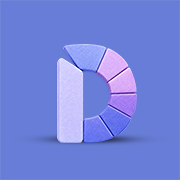
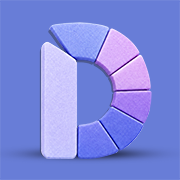
Edit

Changed region(s): [[0.1111, 0.1111, 0.8611, 0.9167]]

diff --git a/src/pages/Landing.jsx b/src/pages/Landing.jsx
@@ -1,6 +1,7 @@
 import { useEffect, useState } from 'react'
 import { Link } from 'react-router-dom'
 import ThemeToggleButton from '../components/ThemeToggleButton'
+import { useTheme } from '../context/ThemeContext'
 import { openAdminWhatsApp } from '../lib/whatsapp'
 import './Landing.css'
 
@@ -77,6 +78,8 @@ function Check() {
 }
 
 export default function Landing() {
+  const { theme } = useTheme()
+  const logoSrc = theme === 'dark' ? '/icon-512-dark.png' : '/icon-512-light.png'
   const [showTop, setShowTop] = useState(false)
 
   useEffect(() => {
@@ -102,7 +105,7 @@ export default function Landing() {
     <div className="landing">
       <header className="landing-nav">
         <div className="landing-brand">
-          <div className="landing-brand-mark"><img src="/icon-512.png" alt="Dapur MUA" /></div>
+          <div className="landing-brand-mark"><img src={logoSrc} alt="Dapur MUA" /></div>
           <div className="landing-brand-text">
           <span className="landing-brand-title">Dapur MUA</span>
           <span className="landing-brand-tagline">Dashboard Balik Layar Make Up Artist</span>
@@ -254,7 +257,7 @@ export default function Landing() {
       </section>
 
       <footer className="landing-footer">
-        <div className="landing-brand"><div className="landing-brand-mark small"><img src="/icon-512.png" alt="Dapur MUA" /></div><span className="landing-brand-title">Dapur MUA</span></div>
+        <div className="landing-brand"><div className="landing-brand-mark small"><img src={logoSrc} alt="Dapur MUA" /></div><span className="landing-brand-title">Dapur MUA</span></div>
         <p>© 2026 Dapur MUA. Hak cipta dilindungi.</p>
       </footer>
 

diff --git a/src/pages/ResetPassword.jsx b/src/pages/ResetPassword.jsx
@@ -2,9 +2,12 @@ import { useState } from 'react'
 import { Link, useNavigate } from 'react-router-dom'
 import { supabase } from '../lib/supabase'
 import ThemeToggleButton from '../components/ThemeToggleButton'
+import { useTheme } from '../context/ThemeContext'
 import './Auth.css'
 
 export default function ResetPassword() {
+  const { theme } = useTheme()
+  const logoSrc = theme === 'dark' ? '/icon-512-dark.png' : '/icon-512-light.png'
   const [password, setPassword] = useState('')
   const [showPassword, setShowPassword] = useState(false)
   const [confirmPassword, setConfirmPassword] = useState('')
@@ -48,7 +51,7 @@ export default function ResetPassword() {
       <div className="auth-page-toggle"><ThemeToggleButton /></div>
         <div className="auth-card">
           <div className="auth-brand">
-            <div className="auth-brand-mark"><img src="/icon-512.png" alt="Dapur MUA" /></div>
+            <div className="auth-brand-mark"><img src={logoSrc} alt="Dapur MUA" /></div>
             <div className="auth-brand-name">Dapur MUA</div>
           </div>
           <div className="auth-title">Kata sandi berhasil diubah ✅</div>
@@ -64,7 +67,7 @@ export default function ResetPassword() {
       <div className="auth-page-toggle"><ThemeToggleButton /></div>
       <div className="auth-card">
         <div className="auth-brand">
-          <div className="auth-brand-mark"><img src="/icon-512.png" alt="Dapur MUA" /></div>
+          <div className="auth-brand-mark"><img src={logoSrc} alt="Dapur MUA" /></div>
           <div className="auth-brand-name">Dapur MUA</div>
         </div>
 

diff --git a/src/pages/Register.jsx b/src/pages/Register.jsx
@@ -2,9 +2,12 @@ import { useState } from 'react'
 import { Link } from 'react-router-dom'
 import { supabase } from '../lib/supabase'
 import ThemeToggleButton from '../components/ThemeToggleButton'
+import { useTheme } from '../context/ThemeContext'
 import './Auth.css'
 
 export default function Register() {
+  const { theme } = useTheme()
+  const logoSrc = theme === 'dark' ? '/icon-512-dark.png' : '/icon-512-light.png'
   const [studioName, setStudioName] = useState('')
   const [email, setEmail] = useState('')
   const [password, setPassword] = useState('')
@@ -71,7 +74,7 @@ export default function Register() {
       <div className="auth-page-toggle"><ThemeToggleButton /></div>
         <div className="auth-card">
           <div className="auth-brand">
-            <div className="auth-brand-mark"><img src="/icon-512.png" alt="Dapur MUA" /></div>
+            <div className="auth-brand-mark"><img src={logoSrc} alt="Dapur MUA" /></div>
             <div className="auth-brand-name">Dapur MUA</div>
           </div>
           <div className="auth-title">Cek email kamu 📩</div>
@@ -92,7 +95,7 @@ export default function Register() {
       <div className="auth-page-toggle"><ThemeToggleButton /></div>
       <div className="auth-card">
         <div className="auth-brand">
-          <div className="auth-brand-mark"><img src="/icon-512.png" alt="Dapur MUA" /></div>
+          <div className="auth-brand-mark"><img src={logoSrc} alt="Dapur MUA" /></div>
           <div className="auth-brand-name">Dapur MUA</div>
         </div>
 

diff --git a/src/pages/LupaPassword.jsx b/src/pages/LupaPassword.jsx
@@ -2,9 +2,12 @@ import { useState } from 'react'
 import { Link } from 'react-router-dom'
 import { supabase } from '../lib/supabase'
 import ThemeToggleButton from '../components/ThemeToggleButton'
+import { useTheme } from '../context/ThemeContext'
 import './Auth.css'
 
 export default function LupaPassword() {
+  const { theme } = useTheme()
+  const logoSrc = theme === 'dark' ? '/icon-512-dark.png' : '/icon-512-light.png'
   const [email, setEmail] = useState('')
   const [error, setError] = useState('')
   const [loading, setLoading] = useState(false)
@@ -33,7 +36,7 @@ export default function LupaPassword() {
       <div className="auth-page-toggle"><ThemeToggleButton /></div>
         <div className="auth-card">
           <div className="auth-brand">
-            <div className="auth-brand-mark"><img src="/icon-512.png" alt="Dapur MUA" /></div>
+            <div className="auth-brand-mark"><img src={logoSrc} alt="Dapur MUA" /></div>
             <div className="auth-brand-name">Dapur MUA</div>
           </div>
           <div className="auth-title">Cek email kamu 📩</div>
@@ -54,7 +57,7 @@ export default function LupaPassword() {
       <div className="auth-page-toggle"><ThemeToggleButton /></div>
       <div className="auth-card">
         <div className="auth-brand">
-        <div className="auth-brand-mark"><img src="/icon-512.png" alt="Dapur MUA" /></div>
+        <div className="auth-brand-mark"><img src={logoSrc} alt="Dapur MUA" /></div>
           <div className="auth-brand-name">Dapur MUA</div>
         </div>
 

diff --git a/src/pages/Login.jsx b/src/pages/Login.jsx
@@ -2,9 +2,12 @@ import { useState } from 'react'
 import { Link, useNavigate } from 'react-router-dom'
 import { supabase } from '../lib/supabase'
 import ThemeToggleButton from '../components/ThemeToggleButton'
+import { useTheme } from '../context/ThemeContext'
 import './Auth.css'
 
 export default function Login() {
+  const { theme } = useTheme()
+  const logoSrc = theme === 'dark' ? '/icon-512-dark.png' : '/icon-512-light.png'
   const [email, setEmail] = useState('')
   const [password, setPassword] = useState('')
   const [showPassword, setShowPassword] = useState(false)
@@ -34,7 +37,7 @@ export default function Login() {
       <div className="auth-page-toggle"><ThemeToggleButton /></div>
       <div className="auth-card">
         <div className="auth-brand">
-          <div className="auth-brand-mark"><img src="/icon-512.png" alt="Dapur MUA" /></div>
+          <div className="auth-brand-mark"><img src={logoSrc} alt="Dapur MUA" /></div>
           <div className="auth-brand-name">Dapur MUA</div>
         </div>
 
